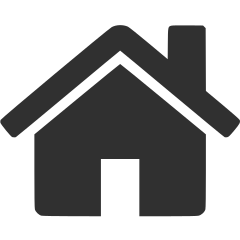
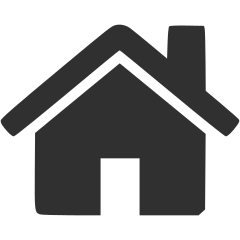
added settingScreen

diff --git a/src/main/kotlin/views/SettingScreen.kt b/src/main/kotlin/views/SettingScreen.kt
@@ -27,7 +27,8 @@ import customs.smartText
 @Composable
 fun settingScreen() {
     var currentScreen by remember { mutableStateOf<Navi>(Navi.SettingScn) }
-    val nightLight = listOf("B1", "B2", "B3", "B4", "B5")
+    val titleList = listOf("Apt install", "Dnf install", "Nala install", "Pacman install", "Zypper install")
+    val suffixList = listOf("Apt", "Dnf", "Nala", "Pac", "Zyp")
 
     when (currentScreen) {
         is Navi.SettingScn -> {
@@ -42,20 +43,20 @@ fun settingScreen() {
                             .clickable(interactionSource = remember { MutableInteractionSource() },
                                 indication = rememberRipple(bounded = false, radius = 10.dp),
                                 onClick = { currentScreen = Navi.MainScn })) {
-                        Image(painter = painterResource("HomePng240.png"),
+                        Image(painter = painterResource("HomePng240B.png"),
                             contentDescription = "",
                             modifier = Modifier.fillMaxSize().padding(15.dp)
                         )
                     }
 
-                    Text("JetPack-Redshift", color = HyperBlue, fontSize = smartText(.9f))
+                    Text("JetPack-Redshift", color = HyperBlue, fontSize = smartText(1f))
 
                     Box(modifier = Modifier.fillMaxSize().weight(1f)
                             .clickable(
                                 interactionSource = remember { MutableInteractionSource() },
                                 indication = rememberRipple(bounded = false, radius = 10.dp),
                                 onClick = { currentScreen = Navi.SettingScn })) {
-                        Image(painter = painterResource("SettingsPng240F.png"),
+                        Image(painter = painterResource("SettingsPng240B.png"),
                             contentDescription = "",
                             modifier = Modifier.fillMaxSize().padding(16.dp)
                         )
@@ -73,9 +74,9 @@ fun settingScreen() {
                         verticalArrangement = Arrangement.Center, horizontalAlignment = Alignment.CenterHorizontally) {
                         Box(modifier = Modifier.fillMaxSize().weight(1f).padding(top = 35.dp),
                             contentAlignment = Alignment.Center) {
-                            Text("NightLight", fontSize = smartText(.8f), color = HyperBlue)
+                            Text("Install redshift", fontSize = smartText(.9f), color = HyperBlue)
                         }
-                        nightLight.forEachIndexed { _, name ->
+                        titleList.forEachIndexed { index, name ->
                             Row(modifier = Modifier
                                     .fillMaxHeight()
                                     .weight(1f),
@@ -83,7 +84,7 @@ fun settingScreen() {
                                 verticalAlignment = Alignment.CenterVertically) {
                                 Button(modifier = Modifier.fillMaxSize().padding(vertical = 15.dp),
                                     colors = ButtonDefaults.buttonColors(DeepPurple), // Assuming you have a color defined somewhere
-                                    onClick = { }) {
+                                    onClick = {  }) {
                                     Text(text = name)
                                 }
                             }

diff --git a/src/main/kotlin/customs/SelectableText.kt b/src/main/kotlin/customs/SelectableText.kt
@@ -1,0 +1,56 @@
+package customs
+
+import androidx.compose.foundation.background
+import androidx.compose.foundation.layout.*
+import androidx.compose.material.Button
+import androidx.compose.material.Text
+import androidx.compose.runtime.Composable
+import androidx.compose.ui.Alignment
+import androidx.compose.ui.Modifier
+import androidx.compose.ui.graphics.Color
+import java.awt.Toolkit
+import java.awt.datatransfer.StringSelection
+
+@Composable
+fun myScreen() {
+    val apt = "sudo apt install redshift -y"
+    val dnf = "sudo dnf install redshift -y"
+    val nala = "sudo nala install redshift -y"
+    val pacman = "sudo pacman install redshift -y"
+    val zypper = "sudo zypper install redshift -y"
+    val textList = listOf(apt, dnf, nala, pacman, zypper)
+
+    Row(modifier = Modifier.fillMaxSize(), verticalAlignment = Alignment.CenterVertically,
+        horizontalArrangement = Arrangement.Center) {
+
+        Box(modifier = Modifier.fillMaxSize().background(Color.Transparent).weight(1.19f))
+
+        Column(modifier = Modifier.fillMaxSize().weight(2f),
+            verticalArrangement = Arrangement.Center,
+            horizontalAlignment = Alignment.CenterHorizontally) {
+
+            Spacer(modifier = Modifier.weight(2f))
+
+            textList.forEach { text ->
+                Row(modifier = Modifier.weight(1f), verticalAlignment = Alignment.CenterVertically,
+                    horizontalArrangement = Arrangement.Center) {
+
+                    Column(modifier = Modifier.fillMaxSize(),
+                        verticalArrangement = Arrangement.Center) {
+                        Button(onClick = {copyToClipboard(text)}) {
+                            Text(text = "Copy $text", fontSize = smartText(.7f))
+                        }
+                    }
+                }
+            }
+            Spacer(modifier = Modifier.weight(1f))
+        }
+        Box(modifier = Modifier.fillMaxSize().background(Color.Transparent).weight(.81f))
+    }
+}
+
+fun copyToClipboard(text: String) {
+    val stringSelection = StringSelection(text)
+    val clipboard = Toolkit.getDefaultToolkit().systemClipboard
+    clipboard.setContents(stringSelection, null)
+}

diff --git a/src/main/kotlin/views/MainScreen.kt b/src/main/kotlin/views/MainScreen.kt
@@ -44,22 +44,22 @@ fun mainScreen() {
                             .clickable(interactionSource = remember { MutableInteractionSource() },
                                 indication = rememberRipple(bounded = false, radius = 10.dp),
                                 onClick = { currentScreen = Navi.MainScn })) {
-                        Image(painter = painterResource("HomePng240.png"),
+                        Image(painter = painterResource("HomePng240B.png"),
                             contentDescription = "",
-                            modifier = Modifier.fillMaxSize().padding(15.dp)
+                            modifier = Modifier.fillMaxSize().padding(13.dp)
                         )
                     }
 
-                    Text("JetPack-Redshift", color = HyperBlue, fontSize = smartText(.9f))
+                    Text("JetPack-Redshift", color = HyperBlue, fontSize = smartText(1f))
 
                     Box(modifier = Modifier.fillMaxSize().weight(1f)
                             .clickable(
                                 interactionSource = remember { MutableInteractionSource() },
                                 indication = rememberRipple(bounded = false, radius = 10.dp),
                                 onClick = { currentScreen = Navi.SettingScn })) {
-                        Image(painter = painterResource("SettingsPng240F.png"),
+                        Image(painter = painterResource("SettingsPng240B.png"),
                             contentDescription = "",
-                            modifier = Modifier.fillMaxSize().padding(16.dp)
+                            modifier = Modifier.fillMaxSize().padding(14.dp)
                         )
                     }
                 }

diff --git a/src/main/kotlin/Main.kt b/src/main/kotlin/Main.kt
@@ -1,11 +1,11 @@
 import androidx.compose.ui.window.Window
 import androidx.compose.ui.window.application
+import customs.myScreen
 import customs.olrScn
-import views.mainScreen
 
 fun main() = application {
     Window(onCloseRequest = ::exitApplication) {
-        mainScreen()
+        myScreen()
         olrScn("\uD83C\uDF35olr")
     }
 }
